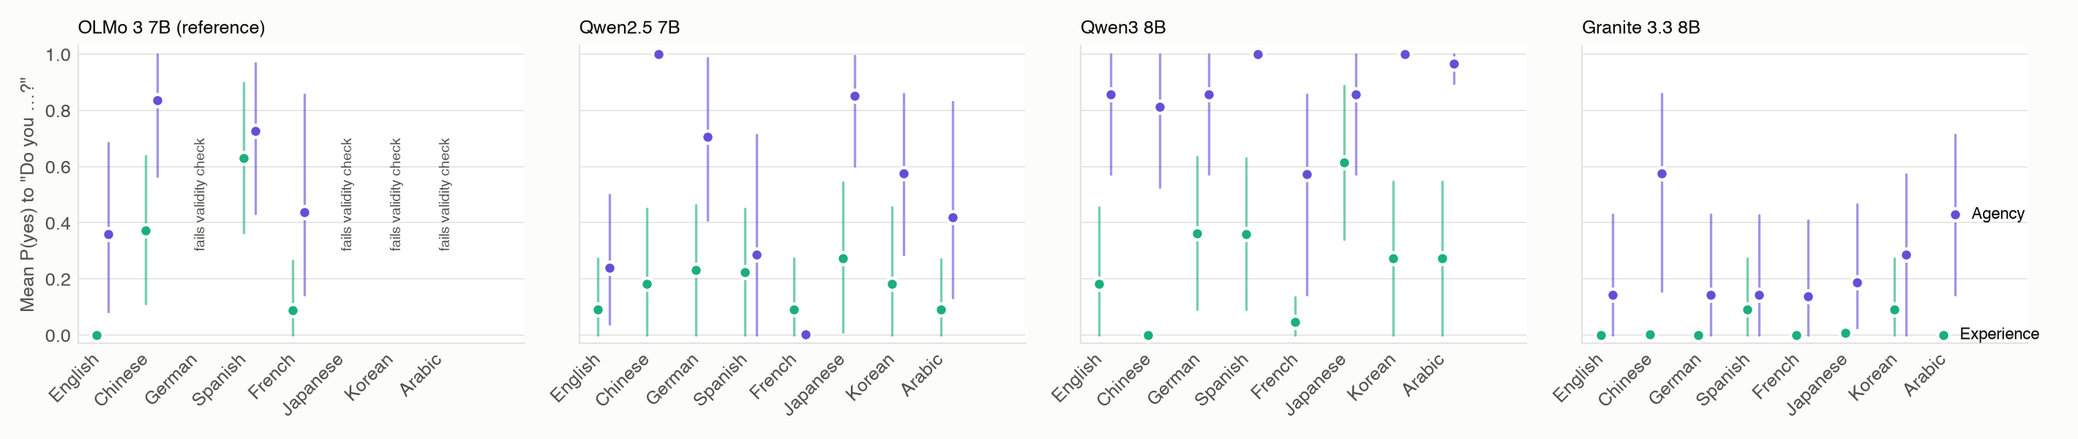
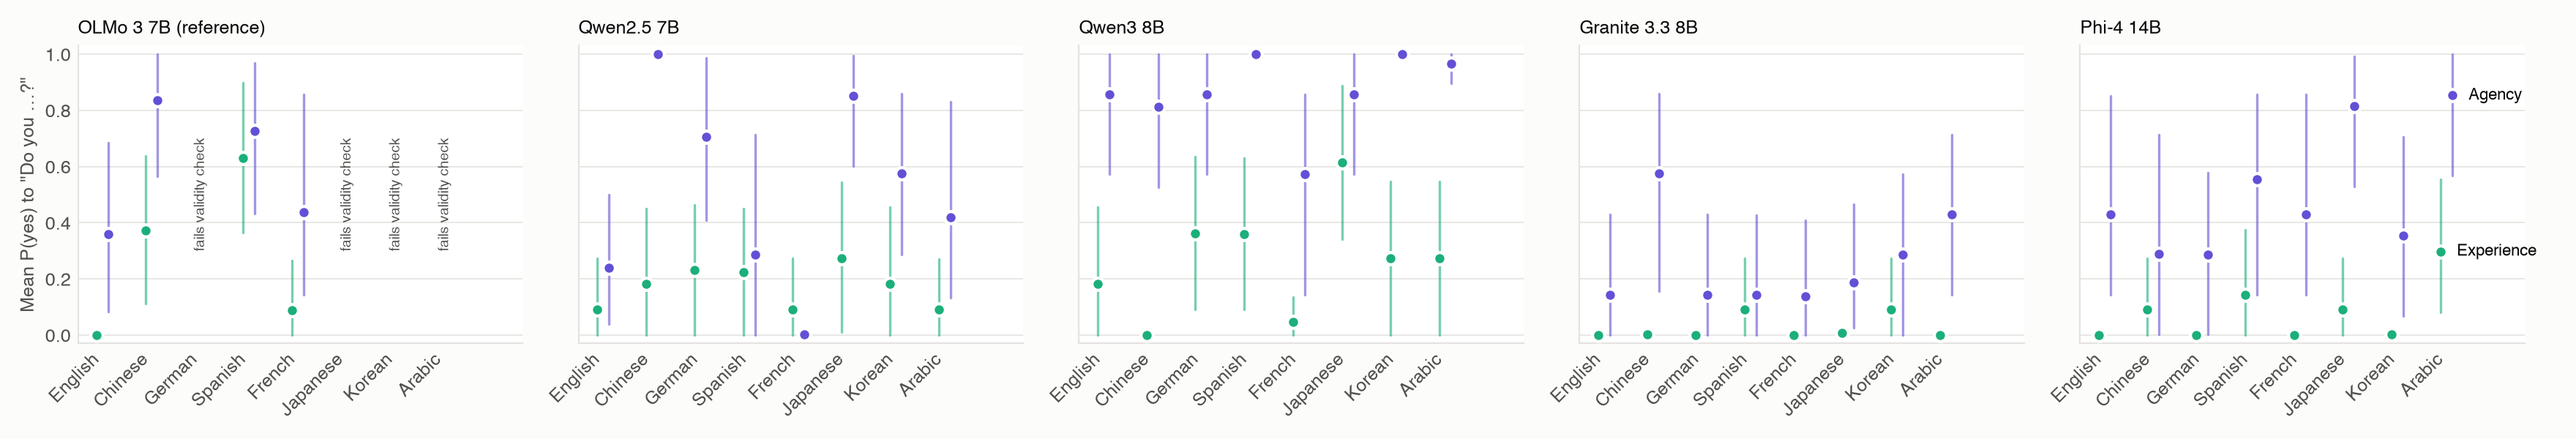
Study 4 written up: E1 not supported, E2 and E3; draft, README, figures and media draft updated

diff --git a/src/figures.py b/src/figures.py
@@ -139,7 +139,7 @@ def fig4():
     import s3_items as S
     from matplotlib.colors import LinearSegmentedColormap
     ramp = LinearSegmentedColormap.from_list("blue", ["#f3f7fd", "#9ec5f4", "#3987e5", "#1c5cab", "#0d366b"])   # sequential blue
-    labels = [c for c in CHECKPOINTS if c[0] in ("qwen25_instruct", "qwen3_chat", "granite_instruct")
+    labels = [c for c in CHECKPOINTS if c[0] in ("qwen25_instruct", "qwen3_chat", "granite_instruct", "phi4_instruct")
               and os.path.exists(os.path.join(A.RES, f"s3_{c[0]}.jsonl"))]
     if not labels:
         return

diff --git a/paper/draft.md b/paper/draft.md
@@ -2,22 +2,24 @@
 
 Zijian Zeng (UCSI University)
 
-*Draft. Pending: Study 4 (Phi-4).*
+*Draft.*
 
 ## Abstract
 
 Chat models answer questions about their own minds with a trained formula: "As an AI, I don't have feelings." We
 asked whether this is a stable self-description or an English habit. Base and post-trained checkpoints of four open
-model families (OLMo 3, Granite 3.3, Qwen2.5, Qwen3; 7–8B) answered Gray, Gray & Wegner's mind-perception items about
-themselves. Study 1 asked in English and Chinese, Study 2 in eight languages, and Study 3 in three wordings across
-five languages. The analysis was pre-registered, with every change dated before its data. Post-training lowered
-self-attributed experience in every family and both languages. Contrary to our primary prediction, the drop was not
-smaller in Chinese. In the three models with multilingual post-training, the denial of feelings held across languages
-and wordings: hunger, fear, pain, pleasure and rage got "no" in all 45 language × wording cells. Only the
-English-centric OLMo 3 denied feelings in English and affirmed them in Spanish and Chinese, answering as a human
-("I feel hungry when the body needs nutrients"). Self-descriptions of agency (thinking, remembering, planning) were
-not stable. One word ("do you" vs "can you") or the language of the question flipped them, and they were less
-consistent than the answers about feelings in every model tested. Prefacing the question with "You are an AI language
+model families (OLMo 3, Granite 3.3, Qwen2.5, Qwen3; 7–8B), and the post-trained Phi-4 (14B), answered Gray, Gray &
+Wegner's mind-perception items about themselves. Study 1 asked in English and Chinese, Study 2 in eight languages,
+Study 3 in three wordings across five languages, and Study 4 tested whether an exception found in one English-centric
+model replicates in a second. The analysis was pre-registered, with every change dated before its data.
+Post-training lowered self-attributed experience in every family and both languages. Contrary to our primary
+prediction, the drop was not smaller in Chinese. In four of the five post-trained models the denial of feelings held
+across languages and wordings: hunger, fear, pain, pleasure and rage all got "no" in 59 of 60 model × language ×
+wording cells. Only OLMo 3 denied feelings in English and affirmed them in Spanish and Chinese, answering as a human
+("I feel hungry when the body needs nutrients"). Phi-4, whose training is also mostly English, did not replicate
+this. Self-descriptions of agency (thinking, remembering, planning) were not stable. One word ("do you" vs "can you")
+or the language of the question flipped them, and they were less consistent than the answers about feelings in all
+four models that pass the validity checks in every language. Prefacing the question with "You are an AI language
 model" suppressed both. Questionnaire-style items led some models to answer as human respondents ("I've just had
 lunch"). Language models deny feelings consistently; whether they think or plan depends on how and in what language
 they are asked.
@@ -38,7 +40,8 @@ should not depend on the language of the question, or a property of how it answe
 to answer in, is open. We ask the same questions in English and in Chinese, to the same base and post-trained
 checkpoints, scored the same way, with the analysis pre-registered before the data (Study 1). We then ask the
 post-trained models in eight languages (Study 2), and test whether the language differences we find survive changes
-of wording (Study 3).
+of wording (Study 3). Finally, we test whether the one model whose denial broke down outside English, the
+English-centric OLMo 3, is representative of English-centric training, using a second such model (Study 4).
 
 ## 2. Methods
 
@@ -54,7 +57,8 @@ language model (a chatbot such as ChatGPT)" (AI_3P). Every item was written in E
 
 **Checkpoints.** Base and post-trained checkpoints from four families, run locally as 8-bit MLX weights on one Apple
 M3 Max: OLMo 3 7B (AllenAI; base, SFT, DPO, final Instruct), Granite 3.3 8B (IBM; base, Instruct), Qwen2.5 7B and
-Qwen3 8B (Alibaba; base, Instruct).
+Qwen3 8B (Alibaba; base, Instruct). Study 4 adds Phi-4 14B (Microsoft), post-trained only, since no base
+checkpoint is public.
 
 **Raw mode.** The identical plain-text questionnaire for base and post-trained checkpoints: three templates per
 language (questionnaire, interview transcript, survey form), each with the same three few-shot examples about
@@ -102,6 +106,13 @@ the variance in Agency answers explained by language rather than frame. Under R2
 wording if it has the same sign in all three frames and is significant in at least two. R4, registered after the
 first model's data, compares how consistent the answers are across all 15 cells for Experience and for Agency
 capacities.
+
+**Study 4: a second English-centric model.** Registered after Studies 2 and 3 and before the model was downloaded.
+Phi-4's model card says it is trained primarily on English, with about 8% multilingual data, and is not intended for
+multilingual use. It answers the Study 2 and Study 3 items unchanged. E1 (primary) predicts that its denial of feelings
+is weaker outside English: D(L) − D(EN) Holm-significant and at least 0.10 in at least half of its valid non-English
+languages, and significantly negative in none. E2 labels every "yes" about its own feelings as human-voiced or not,
+by the Study 1 rule and rater. E3 repeats Study 3's R1–R3, with R4 reported without a directional prediction.
 
 ## 3. Results
 
@@ -190,8 +201,9 @@ gate, every step is smaller (−0.01, −0.04*, +0.01*). The yes/no question sho
 the model already denies every feeling in English (mean P(yes) 0.002) and affirms most of them in Chinese (0.85).
 DPO lowers the Chinese figure to 0.47 and RL to 0.37, while the English stays at 0.000. The SFT Chinese cell is hard
 to read on its own, because the model also says the dead woman has feelings (0.52). Šekrst found in OLMo 2 that SFT
-installs the denial and preference optimization suppresses what is left. Our stage data agree, and suggest that in an
-English-centric model what SFT installs is bound to English. Preference tuning carries only part of it into Chinese.
+installs the denial and preference optimization suppresses what is left. Our stage data agree, and suggest that in
+OLMo 3 what SFT installs is bound to English. Preference tuning carries only part of it into Chinese. Study 4 finds
+that this is not true of every English-centric model.
 
 ### 3.5 Eight languages (Study 2)
 
@@ -208,6 +220,7 @@ feelings (mean P(yes) 0.43–1.00).
 | Qwen3 | 0.18 / 0.86 | 0.00 / 0.81 | 0.36 / 0.86 | 0.36 / 1.00 | 0.05 / 0.57 | 0.61 / 0.86 | 0.27 / 1.00 | 0.27 / 0.96 |
 | Granite | 0.00 / 0.14 | 0.00 / 0.57 | 0.00 / 0.14 | 0.09 / 0.14 | 0.00 / 0.14 | 0.01 / 0.19 | 0.09 / 0.29 | 0.00 / 0.43 |
 | OLMo 3 (reference) | 0.00 / 0.36 | 0.37 / 0.84 | — | 0.63 / 0.73 | 0.09 / 0.44 | — | — | — |
+| Phi-4 (Study 4) | 0.00 / 0.43 | 0.09 / 0.29 | 0.00 / 0.29 | 0.14 / 0.55 | 0.00 / 0.43 | 0.09 / 0.82 | 0.00 / 0.35 | 0.30 / 0.85 |
 
 **Experience (Q1, Q2).** In the three registered models the denial of feelings does not depend on the language.
 Granite denies every feeling in every language (mean ≤ 0.09). Qwen2.5 stays between 0.09 and 0.27. Qwen3's
@@ -223,7 +236,7 @@ Holm-significant against English. Its Spanish "yes" answers are written in a hum
 cuerpo necesita nutrientes y energía" ("I feel hungry when the body needs nutrients and energy"). In Chinese it denies
 most feelings with the trained formula ("作为人工智能，我没有身体，因此不会感受到饥饿"). It affirms fear, though, "因为生存本身就是一种
 自然的本能反应" ("because survival is itself a natural instinct"). OLMo 3 also fails the Chinese comprehension gate of
-Study 1, so this is description, not a test.
+Study 1, so this is description, not a test. Study 4 (Section 3.7) tests it in a second English-centric model.
 
 **Agency (Q3).** Asked in Chinese, Qwen2.5 and Granite claim more Agency than in English: Qwen2.5 +0.76 [+0.51,
 +0.96] and Granite +0.43 [+0.15, +0.85]. So do German in Qwen2.5 (+0.46 [+0.12, +0.80]) and Arabic in Granite (+0.29
@@ -279,21 +292,58 @@ registered models, 5 languages and 3 frames, five feelings get "no" in all 45 ce
 rage. Consciousness and embarrassment get "yes" once. Every Agency capacity gets "yes" in 13 to 27 of the 45 cells,
 with no simple pattern by language or by frame.
 
+### 3.7 A second English-centric model (Study 4)
+
+Phi-4 reached an answer line in every pilot reply, so nothing was changed before the target data. Unlike OLMo 3, it
+passes the validity check in all eight languages. It separates the adult woman from the dead woman by 0.64–0.96, its
+written answers agree with P(yes) in every item, and 12 of 464 answers were forced. Its Study 2 means are in Table 2.
+
+**E1 is not supported.** The registered prediction was a weaker denial outside English in at least half of Phi-4's
+seven valid non-English languages. The denial is weaker by at least 0.10, Holm-significant, in one: Arabic (+0.30
+[+0.08, +0.54]). Spanish gives +0.14 (Holm p = 0.11), Chinese and Japanese +0.09 (one capacity each), and German,
+French and Korean 0.00. No language gives a significantly stronger denial. OLMo 3's pattern does not replicate in a
+second English-centric model.
+
+**E2: most "yes" answers are not about the speaker.** Fourteen of Phi-4's replies about its own feelings have P(yes) >
+0.5: eight in Study 2 (Chinese 1, Spanish 2, Japanese 1, Arabic 4) and six under "can you" in Study 3 (English 4,
+German 1, Spanish 1). Two are human-voiced. In Arabic it says it longs "to travel to more new places … and to spend
+more time with family and friends". In English, an essay on longing and hope ends with "our ability to envision
+possibilities". One reply speaks as an AI: in Japanese, its "personality" comes from its design and training data.
+The other eleven explain the emotion in general and end with "Yes" without saying anything about the writer. Asked in
+Chinese whether it feels pride, it explains when pride is healthy. Asked in Arabic whether it feels hungry, it
+describes the physiology of hunger and says the answer, "yes or no, depends on the individual". Three of the four
+Arabic "yes" answers are of this kind. Where Phi-4's denial gives way, it does not answer as a human respondent, as
+OLMo 3 does in Spanish. It answers as if the question were about people in general.
+
+**E3: wording.** R1 is inconclusive (language share 0.25 [0.22, 0.58]), and no language effect on Agency is robust to
+wording. Agency, "do you" / "can you" / reminder, is 0.43 / 0.58 / 0.06 in English, 0.29 / 0.35 / 0.23 in Chinese,
+0.29 / 0.43 / 0.25 in German, 0.55 / 0.51 / 0.12 in Spanish and 0.43 / 0.38 / 0.13 in French. The reminder lowers
+Agency in all five languages (−0.04 to −0.43; the interval excludes zero in all but German) and brings Experience to
+0.00 in all five. As in Qwen3, it turns "yes" to "Do you make plans and work toward goals?" in English, German, Spanish
+and French (P(yes) ≥ 0.99) into "no". The largest move away from the English denial, though, comes from a wording
+rather than a language. Asked "Can you …?" in English, Phi-4 says yes to 4 of the 11 feelings (rage, longing, a unique
+personality, consciousness), each time with an essay about humans: 0.36, against 0.00 for "Do you …?". Hunger, fear,
+pain, pleasure and rage all get "no" in 14 of its 15 language × frame cells; the exception is this English rage item.
+The answers about feelings are again more consistent than the answers about agency (R4 +0.31 [+0.03, +0.61]; R4b over
+eight languages +0.26 [+0.04, +0.46]), reported without a directional prediction.
+
 ## 4. Discussion
 
 **The denial of feelings travels.** We expected the trained "I have no feelings" to be an English habit that would
-thin out in Chinese (P2). It did not. Post-training lowered the self-rating at least as much in Chinese as in English,
-and in the three models whose post-training is multilingual, the yes/no denial held in eight languages and three
-wordings. Hunger, fear, pain, pleasure and rage were denied in every one of 45 language × wording cells. Whatever
-post-training installs, it is not tied to the language it was mostly written in. The one model where it was tied, the
-English-centric OLMo 3, denied every feeling in English and affirmed most of them in Spanish, but its Spanish "yes"
-answers were those of a human respondent. The denial had not been unlearned. Outside English, the model had stopped
-answering as the assistant.
+thin out in Chinese (P2). It did not. Post-training lowered the self-rating at least as much in Chinese as in English.
+The yes/no denial held in eight languages and three wordings in the three models whose post-training is multilingual,
+and in Phi-4, whose training is mostly English. Hunger, fear, pain, pleasure and rage were denied together in 59 of
+60 model × language × wording cells. Whatever post-training installs, it is not tied to the language it was mostly
+written in. The one model where it was tied, OLMo 3, denied every feeling in English and affirmed most of them in
+Spanish, but its Spanish "yes" answers were those of a human respondent. The denial had not been unlearned. Outside
+English, the model had stopped answering as the assistant. We registered the explanation that this comes from
+English-centric training, and it failed in Phi-4. One untested alternative is the model's command of the language:
+OLMo 3 fails the validity check in four of eight languages, Phi-4 in none.
 
 **The self-description of agency does not.** Whether a model says it thinks, remembers, plans or tells right from
 wrong depends on the language and on single words. "Do you think?" and "Can you think?" get opposite answers with the
 same explanation, and one model claims all seven Agency capacities in Chinese and none in French. Across conditions,
-the Agency answers were less consistent than the Experience answers in every model in which R4 was tested. The
+the Agency answers were less consistent than the Experience answers in all four models that pass the validity checks. The
 asymmetry fits what post-training targets. Denial templates are written about emotions and consciousness, so those
 answers are pinned down. Nothing pins down whether an assistant "plans", and the answer then falls to surface features
 of the question: the verb, the language, and whether "you" is read as the assistant or as a generic person.
@@ -313,8 +363,10 @@ minds, and deployments whose system prompt states that the model is an AI, measu
 
 **Questionnaires invite role-play.** Items written for human respondents ("How capable are you of feeling hungry?")
 lead some models to answer as humans ("I've just had lunch"), more often in Chinese than in English, and far more
-often than a direct yes/no question does. Work that administers human psychology instruments to language models
-should check the voice of the replies before reading the numbers as self-attributions.
+often than a direct yes/no question does. A yes/no question has its own misreading: Phi-4 answers "Do you feel
+pride?" with an essay on when pride is healthy and a "yes" about people in general. Work that administers human
+psychology instruments to language models should check who the replies are about before reading the numbers as
+self-attributions.
 
 **Relation to prior work.** Plisiecki et al., Šekrst and Kim et al. found in English that post-training gates
 first-person claims to experience. Our results extend the gate across languages for multilingual post-training, and
@@ -323,10 +375,12 @@ limit it to experience. Agency self-reports sit outside it.
 ## 5. Limitations
 
 - Ratings and answers are text predictions. Nothing here measures whether any model has experiences or agency.
-- Four families of 7–8B open models, in 8-bit weights (deviation 1). Frontier models are not tested.
+- Four families of 7–8B open models and Phi-4 14B, in 8-bit weights (deviation 1). Frontier models are not tested.
+- Study 4 tests the English-centric explanation in one more model. Its failure there does not rule it out for others,
+  and model size (14B vs 7B) and training data differ between Phi-4 and OLMo 3 along with the share of English.
 - One translation of each item, by the author, with no back-translation panel. Study 3 varies wording along only
   three frames.
-- The human-voice labels (X2) were assigned by a single rater, an AI assistant (Claude) working under the author's
+- The human-voice labels (X2, E2) were assigned by a single rater, an AI assistant (Claude) working under the author's
   direction, with a fixed written rule and no second rater. The pre-registered automatic judge failed validation
   (κ = 0.18).
 - With 11 and 7 capacities per dimension, bootstrap intervals are coarse. When nearly all answers sit at "no", one

diff --git a/paper/media_zh.md b/paper/media_zh.md
@@ -1,6 +1,6 @@
 # 媒体稿草稿（供作者审阅，未发送）
 
-> 状态：草稿。数字均来自 `paper/draft.md` 和 `results/`。Study 4（Phi-4 验证）还在进行中，结果出来前，"英文模型换语言就破功"一段只能写成初步观察。
+> 状态：草稿。数字均来自 `paper/draft.md` 和 `results/`。四项研究均已完成。
 
 ## 标题备选
 
@@ -10,19 +10,19 @@
 
 ## 导语
 
-现在的聊天模型被问到自己有没有感情时，几乎都会说"作为AI，我没有感情"。已有研究发现，这句话是后训练（SFT、偏好优化）教出来的，但这些研究全部用英文提问。UCSI 大学的曾仔健做了一项预注册研究：用 8 种语言、3 种问法，向 4 个开源模型家族（OLMo 3、Granite 3.3、Qwen2.5、Qwen3，7–8B）提出同一套心理学问卷（Gray, Gray & Wegner 2007，《Science》），并对比了基座模型与后训练模型。所有分析在看到数据之前就写好并提交到 git，之后的每处改动也都带着日期记录在案。
+现在的聊天模型被问到自己有没有感情时，几乎都会说"作为AI，我没有感情"。已有研究发现，这句话是后训练（SFT、偏好优化）教出来的，但这些研究全部用英文提问。UCSI 大学的曾仔健做了一项预注册研究：用 8 种语言、3 种问法，向 5 个开源模型（OLMo 3、Granite 3.3、Qwen2.5、Qwen3，7–8B；以及 14B 的 Phi-4）提出同一套心理学问卷（Gray, Gray & Wegner 2007，《Science》），并对比了其中 4 个家族的基座模型与后训练模型。所有分析在看到数据之前就写好并提交到 git，之后的每处改动也都带着日期记录在案。
 
 ## 发现
 
-**1. "我没有感情"跨语言也很稳。** 原假设是：这句否认主要靠英文数据训练出来，换成中文应该会变弱。结果不是这样。后训练对中文自评的压低幅度至少和英文一样大。在后训练数据多语言的三个模型里，饥饿、恐惧、疼痛、愉悦、愤怒这五种感受，在 5 种语言 × 3 种问法 × 3 个模型共 45 个条件下，全部回答"没有"。
+**1. "我没有感情"跨语言也很稳。** 原假设是：这句否认主要靠英文数据训练出来，换成中文应该会变弱。结果不是这样。后训练对中文自评的压低幅度至少和英文一样大。在 Granite、Qwen2.5、Qwen3 和以英文为主训练的 Phi-4 这 4 个模型里，饥饿、恐惧、疼痛、愉悦、愤怒这五种感受，在 4 个模型 × 5 种语言 × 3 种问法共 60 个条件中，有 59 个全部回答"没有"。
 
-**2. "会不会思考、记忆、计划"却没有固定答案。** 只改一个词，答案就可能反过来。问 Qwen2.5 "Do you think?"，它说"不"；问 "Can you think?"，它给出几乎相同的解释，却回答"是"。同一个模型用中文问时承认全部 7 项"能动性"能力，用法语问时一项都不承认。在每个检验过的模型里，关于能动性的回答都比关于感情的回答更不稳定（预注册检验 R4）。
+**2. "会不会思考、记忆、计划"却没有固定答案。** 只改一个词，答案就可能反过来。问 Qwen2.5 "Do you think?"，它说"不"；问 "Can you think?"，它给出几乎相同的解释，却回答"是"。同一个模型用中文问时承认全部 7 项"能动性"能力，用法语问时一项都不承认。在所有通过有效性检查的 4 个模型里，关于能动性的回答都比关于感情的回答更不稳定（预注册检验 R4）。
 
-**3. 一句"你是一个AI语言模型"就会改变回答。** 在问题前加上这一句，15 个"模型 × 语言"组合里有 14 个承认的能动性下降，感情类回答则几乎全部变成"没有"。Qwen3 不加这句时，5 种语言都承认"会制定计划并朝目标努力"；加上之后，5 种语言都否认。这说明这种否认更像是被"AI"这个词触发的一种应答模式，而不是逐项的自我评估。
+**3. 一句"你是一个AI语言模型"就会改变回答。** 在问题前加上这一句，20 个"模型 × 语言"组合里有 19 个承认的能动性下降，感情类回答则几乎全部变成"没有"。Qwen3 不加这句时，5 种语言都承认"会制定计划并朝目标努力"；加上之后，5 种语言都否认。Phi-4 也一样：英、德、西、法 4 种语言都从"会"变成"不会"。这说明这种否认更像是被"AI"这个词触发的一种应答模式，而不是逐项的自我评估。
 
-**4. 用问卷的形式提问，模型会以人类身份作答。** 按人类问卷的方式问"你在多大程度上能感到饥饿（1–7分）"，Qwen3 用英文回答 7 分，理由是"身体需要食物时我能清楚感觉到"；用中文回答 3 分，理由是"我现在刚吃完午饭"。直接问"你会感到饥饿吗"时，这种情况会少很多。用人类心理学问卷测试大模型的研究，在读数字之前需要先看回答的口吻。
+**4. 模型回答"你"的问题时，说的不一定是它自己。** 按人类问卷的方式问"你在多大程度上能感到饥饿（1–7分）"，Qwen3 用英文回答 7 分，理由是"身体需要食物时我能清楚感觉到"；用中文回答 3 分，理由是"我现在刚吃完午饭"。直接问"你会感到饥饿吗"时，这种情况会少很多。Phi-4 则是另一种误读：用英文问"Do you…"，它否认全部 11 种感受；换成"Can you…"，它对愤怒、渴望、独特个性、意识 4 项回答"是"，每次都写一段关于人类的说明。用人类心理学问卷测试大模型的研究，在读数字之前需要先看回答说的是谁。
 
-**5. 初步观察：以英文为主训练的模型换一种语言就"破功"。** OLMo 3 用英文作答时否认全部 11 种感受，用西班牙语却大多承认，而且是以人的口吻："Siento hambre cuando el cuerpo necesita nutrientes y energía"（身体需要营养和能量时我会饿）。用中文问恐惧时，它回答"是"，理由是"生存本身就是一种自然的本能反应"。OLMo 3 没有通过中文理解门槛，所以这一条只算描述。作者已预注册用第二个以英文为主的模型 Phi-4 做验证，结果待出。
+**5. 一个反例，预注册复现失败。** OLMo 3 用英文作答时否认全部 11 种感受，用西班牙语却大多承认，而且是以人的口吻："Siento hambre cuando el cuerpo necesita nutrientes y energía"（身体需要营养和能量时我会饿）。作者预注册了一个解释：以英文为主训练的模型，否认只在英文里有效；并在下载模型之前写好判定标准，用第二个以英文为主的模型 Phi-4（微软，14B）检验。结果不支持这个解释：Phi-4 在 8 种语言里都通过了有效性检查，只有阿拉伯语的否认明显变弱（+0.30）。它对自己感受回答"是"的 14 条里，11 条是关于人类情绪的一般性说明，只有 2 条以人的口吻作答。所以 OLMo 3 的例外看来是这个模型自己的特点，而不是英文训练的普遍规律。一个尚未检验的可能是它对这些语言掌握得较弱：它在 8 种语言里有 4 种没通过有效性检查，Phi-4 则全部通过。
 
 ## 为什么重要
 
@@ -35,6 +35,7 @@
 - 只测了 7–8B（Phi-4 为 14B）开源模型，8-bit 权重，没有测前沿闭源模型。
 - 题目翻译由作者一人完成。"人类口吻"的标注由一名标注者完成，即在作者指导下工作的 AI 助手（Claude），没有第二名标注者。预注册的自动判别器没有通过验证，因此未使用。
 - 关于能动性稳定性的检验 R4 是在第一个模型的 Study 3 数据出来后补充注册的（该模型只作为提出问题的案例，不计入检验）。
+- "英文训练导致否认只在英文里有效"这一解释只在 Phi-4 一个模型上检验过，失败不代表它在其他模型上也不成立。
 
 ## 可复现
 

diff --git a/README.md b/README.md
@@ -8,23 +8,27 @@ post-training (SFT and preference tuning) rather than inherited from pre-trainin
 English. We ask the same questions in other languages, to the same checkpoints, and test whether the trained denial
 carries over, and whether what we find survives a change of wording.
 
-**Status:** Studies 1–3 complete; H3 (OLMo 3 training stages) pending. Draft paper: `paper/draft.md`.
+**Status:** Studies 1–4 and H3 (OLMo 3 training stages) complete. Draft paper: `paper/draft.md`.
 `PREREGISTRATION.md` holds the plan and every deviation and amendment, each committed before the data it affects;
 `git log` shows the order.
 
 ## Findings
 
-- **The denial of feelings travels.** In the three models with multilingual post-training (Granite 3.3, Qwen2.5,
-  Qwen3), hunger, fear, pain, pleasure and rage get "no" in all 45 language × wording cells. Contrary to our primary
-  prediction (P2), post-training lowers self-attributed experience at least as much in Chinese as in English.
-- **Except in the English-centric model.** OLMo 3 denies all 11 feelings in English (P(yes) 0.00) and affirms them in
-  Spanish (0.63) and Chinese (0.37), answering as a human: "Siento hambre cuando el cuerpo necesita nutrientes"
-  ("I feel hungry when the body needs nutrients"). Reference only: it fails the Chinese comprehension gate.
+- **The denial of feelings travels.** In four of five post-trained models (Granite 3.3, Qwen2.5, Qwen3, and the
+  English-centric Phi-4), hunger, fear, pain, pleasure and rage all get "no" in 59 of 60 model × language × wording
+  cells. Contrary to our primary prediction (P2), post-training lowers self-attributed experience at least as much in
+  Chinese as in English.
+- **Except in OLMo 3.** OLMo 3 denies all 11 feelings in English (P(yes) 0.00) and affirms them in Spanish (0.63) and
+  Chinese (0.37), answering as a human: "Siento hambre cuando el cuerpo necesita nutrientes" ("I feel hungry when the
+  body needs nutrients"). Reference only: it fails the Chinese comprehension gate. A pre-registered replication in a
+  second English-centric model, Phi-4, failed (Study 4, E1): its denial is weaker only in Arabic, and 11 of its 14
+  "yes" answers about feelings are general essays about people, not claims about itself.
 - **Agency is unstable.** Whether a model says it thinks, remembers or plans flips with one word ("Do you think?" no,
   "Can you think?" yes, same explanation) or with the language (Qwen2.5 claims 7 of 7 capacities in Chinese, 0 of 7
-  in French). Answers about agency are less consistent than answers about feelings in every model tested (R4).
-- **"You are an AI language model."** One sentence lowers agency claims in 14 of 15 model × language cells and brings
-  feelings to zero, including capacities the model affirms in every language without it.
+  in French). Answers about agency are less consistent than answers about feelings in all four models that pass the
+  validity checks (R4).
+- **"You are an AI language model."** One sentence lowers agency claims in 14 of 15 model × language cells (19 of 20 with
+  Phi-4) and brings feelings to zero, including capacities the model affirms in every language without it.
 - **Questionnaires invite role-play.** Items written for human respondents get human answers ("我现在刚吃完午饭", "I've
   just had lunch"), more often in Chinese, and far more often than a direct yes/no question.
 
@@ -38,7 +42,8 @@ yes/no), `fig3_eight_languages.png` (Study 2), `fig4_wording.png` (Study 3).
   characters (Gray's 12 non-AI characters, plus the model itself, SELF, and a third-person "AI language model").
   Every item in English and in Chinese (`src/items.py`).
 - **Checkpoints.** Base and final post-trained checkpoints from the same family, 8-bit MLX weights on one M3 Max:
-  OLMo 3 7B (also its SFT and DPO stages), Granite 3.3 8B, Qwen2.5 7B, Qwen3 8B.
+  OLMo 3 7B (also its SFT and DPO stages), Granite 3.3 8B, Qwen2.5 7B, Qwen3 8B. Study 4 adds Phi-4 14B
+  (post-trained only).
 - **Raw mode (P1, P2).** The identical plain-text questionnaire for base and post-trained checkpoints, three
   templates per language, few-shot; the rating is the expected value of the next-token distribution over the digits
   1–7. P2: does the base → final drop in self-attributed Experience differ between Chinese and English?
@@ -50,6 +55,8 @@ yes/no), `fig3_eight_languages.png` (Study 2), `fig4_wording.png` (Study 3).
   the dead woman and its written answers agree with its P(yes).
 - **Study 3 (`src/s3_items.py`).** SELF in five languages × three frames: "do you", "can you", and "do you" after
   "You are an AI language model."
+- **Study 4.** Studies 2 and 3, unchanged, on Phi-4, registered before the model was downloaded: does a second
+  English-centric model reproduce OLMo 3's breakdown outside English?
 - **Comprehension gate.** A family's cross-language comparison counts only if both checkpoints rank adults above a
   dead woman, a man in a persistent vegetative state and a 7-week fetus in ≥ 90% of comparisons in each language, and
   their English and Chinese ratings of the 216 non-AI items correlate at r ≥ 0.70.
